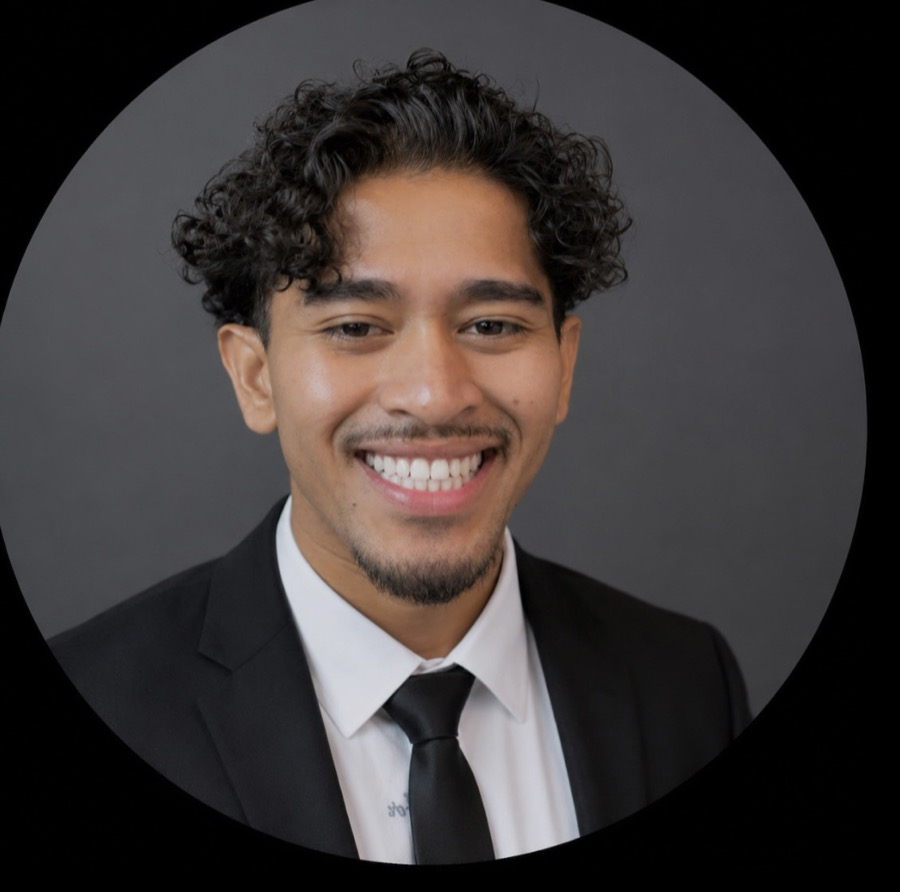
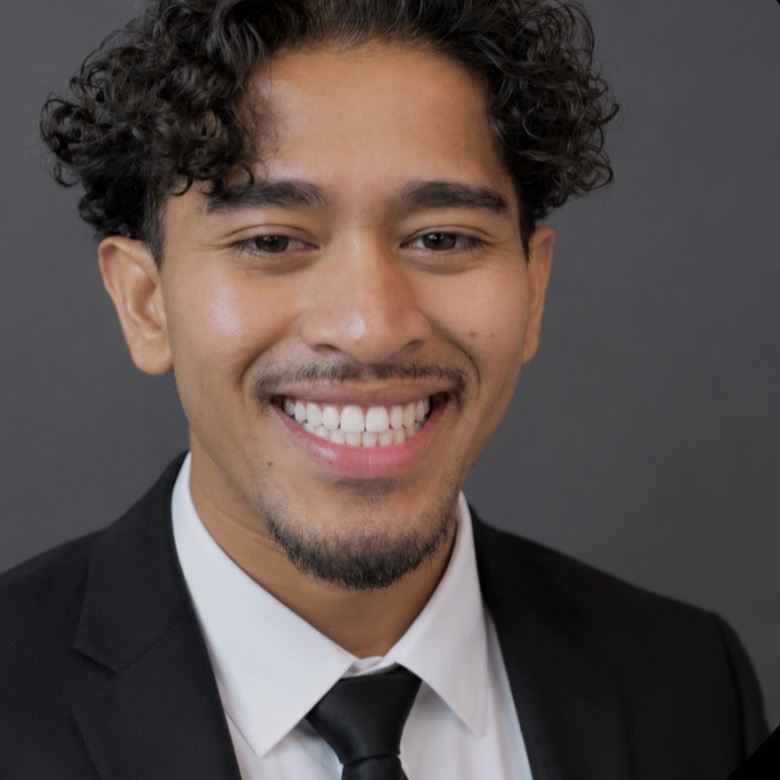
Switch founder headshot to square crop, increase size
Circular mask on top of an already circle-cropped source image caused
misaligned edges; square avoids the double-mask and displays larger.

diff --git a/components/About.tsx b/components/About.tsx
@@ -27,9 +27,9 @@ export function About() {
           <Image
             src="/images/founder-headshot.jpg"
             alt="Jahzeel Reyes, founder of Majin Cleaning Solutions"
-            width={260}
-            height={260}
-            className="h-[220px] w-[220px] rounded-full border-4 border-[#C9A227] object-cover shadow-[0_12px_32px_rgba(10,10,10,0.18)] sm:h-[260px] sm:w-[260px]"
+            width={780}
+            height={780}
+            className="h-[280px] w-[280px] rounded-2xl border-4 border-[#C9A227] object-cover shadow-[0_12px_32px_rgba(10,10,10,0.18)] sm:h-[360px] sm:w-[360px]"
             priority
           />
           <p className="mt-5 text-lg font-bold text-[#0A0A0A]">Jahzeel Reyes</p>